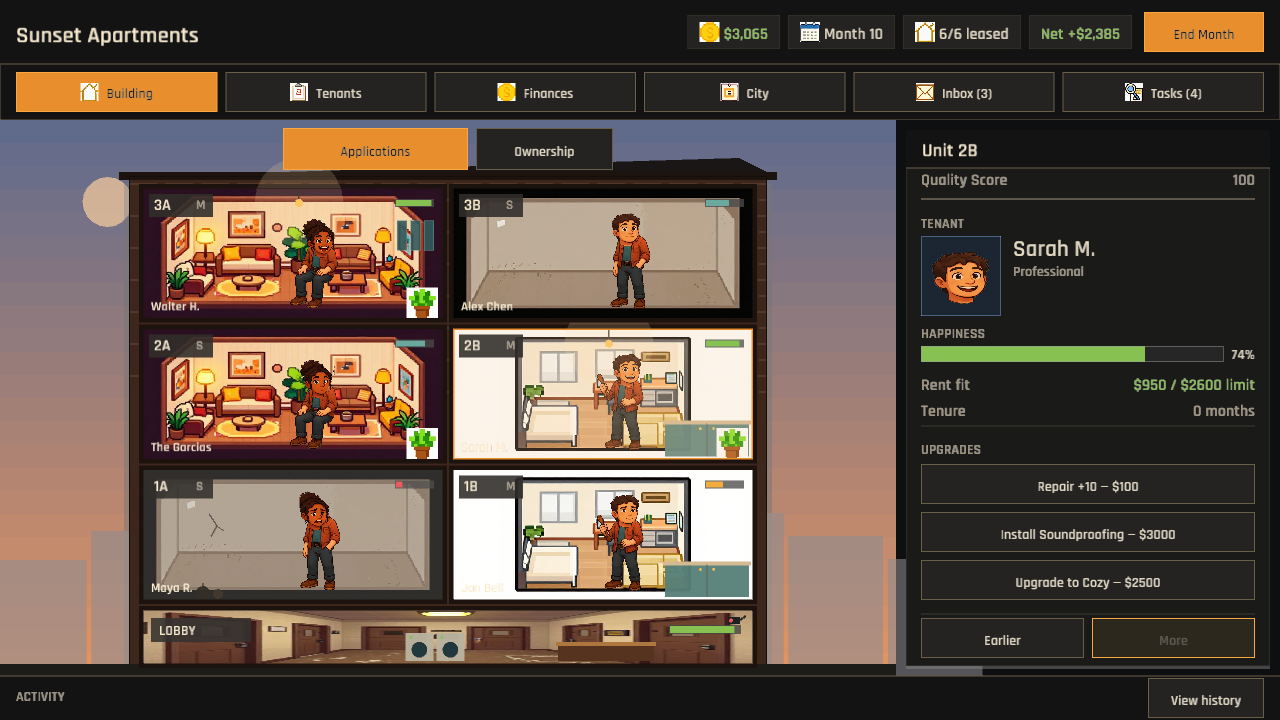
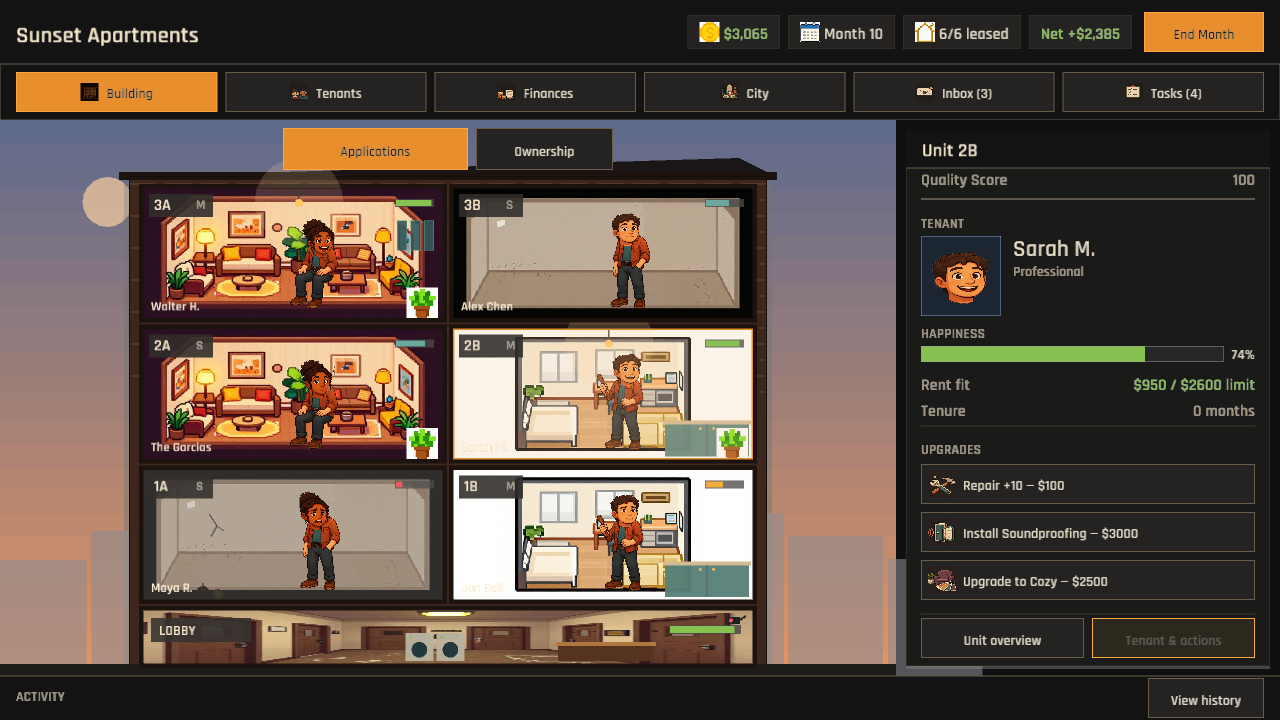
Every renovation quote carries the tool that will change the room (upgrade action atlas)
Add a generated 3x2 atlas for repair, soundproofing, kitchen, lighting, laundry, and interior-design actions. Render its crop-aware icons inside the existing full-row upgrade buttons while preserving authoritative action names, costs, affordability states, and touch behavior.

Map unknown configured apartment upgrades to the design family, cover the principal action families with a focused test, and correct the 640x480 scrolled capture seed so it reaches the actual upgrade rows rather than stopping at tenant details.

Verified with 137 passing tests (1 ignored), desktop and corrected 640x480 upgrade captures, formatting, JSON and Rust line-count checks, and publish.ps1 for Windows, WebGL, and preview deployment.

diff --git a/src/ui/apartment_panel_sections.rs b/src/ui/apartment_panel_sections.rs
@@ -1,9 +1,9 @@
 use crate::assets::AssetManager;
-use crate::building::{Apartment, ApartmentSize, Building, DesignType, NoiseLevel};
+use crate::building::{Apartment, ApartmentSize, Building, DesignType, NoiseLevel, UpgradeAction};
 use macroquad::prelude::*;
 
 use super::{common::*, UiAction};
-use macroquad_toolkit::ui::{draw_ui_text, measure_ui_text};
+use macroquad_toolkit::ui::{draw_ui_text, measure_ui_text, truncate_text_to_width};
 
 pub(super) fn draw_sold_condo_panel(
     apt: &Apartment,
@@ -228,6 +228,7 @@ pub(super) fn draw_upgrades(
     content_bottom: f32,
     current_scroll: f32,
     config: &crate::data::config::GameConfig,
+    assets: &AssetManager,
 ) -> (Option<UiAction>, f32, f32) {
     let w = panel_w - 30.0;
     if *y > content_top && *y < content_bottom {
@@ -271,7 +272,13 @@ pub(super) fn draw_upgrades(
 
             if *y >= content_top
                 && *y + btn_h <= content_bottom
-                && button(content_x, *y, btn_w, btn_h, &label, can_afford)
+                && upgrade_button(
+                    Rect::new(content_x, *y, btn_w, btn_h),
+                    &label,
+                    can_afford,
+                    &upgrade,
+                    assets,
+                )
             {
                 action = Some(UiAction::UpgradeAction(upgrade));
             }
@@ -297,3 +304,87 @@ pub(super) fn draw_upgrades(
 
     (action, final_scroll, max_scroll)
 }
+
+fn upgrade_icon_tile(action: &UpgradeAction) -> (f32, f32) {
+    match action {
+        UpgradeAction::RepairApartment { .. } | UpgradeAction::RepairHallway { .. } => (0.0, 0.0),
+        UpgradeAction::Apply { upgrade_id, .. } if upgrade_id == "soundproofing" => (1.0, 0.0),
+        UpgradeAction::Apply { upgrade_id, .. } if upgrade_id == "kitchen_renovation" => (2.0, 0.0),
+        UpgradeAction::Apply { upgrade_id, .. } if upgrade_id == "lighting_upgrade" => (0.0, 1.0),
+        UpgradeAction::Apply { upgrade_id, .. } if upgrade_id == "install_laundry" => (1.0, 1.0),
+        UpgradeAction::Apply { .. } => (2.0, 1.0),
+    }
+}
+
+fn upgrade_button(
+    rect: Rect,
+    label: &str,
+    enabled: bool,
+    action: &UpgradeAction,
+    assets: &AssetManager,
+) -> bool {
+    let clicked =
+        crate::ui::widgets::button_at(rect, "", enabled, crate::ui::theme::Tone::Secondary);
+    let icon_size = 28.0;
+    let icon_rect = Rect::new(
+        rect.x + 7.0,
+        rect.y + (rect.h - icon_size) * 0.5,
+        icon_size,
+        icon_size,
+    );
+    let text_x = icon_rect.right() + 7.0;
+    let text_w = rect.right() - text_x - 7.0;
+    draw_upgrade_icon(action, icon_rect, enabled, assets);
+    draw_ui_text(
+        &truncate_text_to_width(label, text_w, crate::ui::theme::scale::LABEL),
+        text_x,
+        rect.y + rect.h * 0.5 + crate::ui::theme::scale::LABEL * 0.5 - 1.0,
+        crate::ui::theme::scale::LABEL,
+        if enabled {
+            colors::TEXT()
+        } else {
+            colors::TEXT_DIM()
+        },
+    );
+    clicked
+}
+
+fn draw_upgrade_icon(
+    action: &UpgradeAction,
+    rect: Rect,
+    enabled: bool,
+    assets: &AssetManager,
+) -> bool {
+    let Some(texture) = assets.get_texture("upgrade_icons") else {
+        return false;
+    };
+    let (column, row) = upgrade_icon_tile(action);
+    let tile_w = texture.width() / 3.0;
+    let tile_h = texture.height() * 0.5;
+    let inset_x = tile_w * 0.08;
+    let inset_y = tile_h * 0.08;
+    draw_texture_ex(
+        texture,
+        rect.x,
+        rect.y,
+        if enabled {
+            WHITE
+        } else {
+            Color::new(0.45, 0.43, 0.4, 0.7)
+        },
+        DrawTextureParams {
+            dest_size: Some(vec2(rect.w, rect.h)),
+            source: Some(Rect::new(
+                column * tile_w + inset_x,
+                row * tile_h + inset_y,
+                tile_w - inset_x * 2.0,
+                tile_h - inset_y * 2.0,
+            )),
+            ..Default::default()
+        },
+    );
+    true
+}
+
+#[cfg(test)]
+mod tests;

diff --git a/src/ui/apartment_panel_sections/tests.rs b/src/ui/apartment_panel_sections/tests.rs
@@ -1,0 +1,20 @@
+use super::*;
+
+#[test]
+fn apartment_upgrade_families_select_the_expected_cells() {
+    let apply = |id: &str| UpgradeAction::Apply {
+        upgrade_id: id.to_string(),
+        target_id: Some(1),
+    };
+    assert_eq!(
+        upgrade_icon_tile(&UpgradeAction::RepairApartment {
+            apartment_id: 1,
+            amount: 10,
+        }),
+        (0.0, 0.0)
+    );
+    assert_eq!(upgrade_icon_tile(&apply("soundproofing")), (1.0, 0.0));
+    assert_eq!(upgrade_icon_tile(&apply("kitchen_renovation")), (2.0, 0.0));
+    assert_eq!(upgrade_icon_tile(&apply("lighting_upgrade")), (0.0, 1.0));
+    assert_eq!(upgrade_icon_tile(&apply("upgrade_to_cozy")), (2.0, 1.0));
+}

diff --git a/src/game.rs b/src/game.rs
@@ -70,7 +70,11 @@ impl Game {
                 self.seed_gameplay_capture(true);
                 if let GameState::Gameplay(state) = &mut self.state {
                     state.selection = crate::ui::Selection::Apartment(3);
-                    state.panel_scroll_offset = 240.0;
+                    state.panel_scroll_offset = if scene == "unit_scrolled_tiny" {
+                        480.0
+                    } else {
+                        240.0
+                    };
                 }
             }
             "hallway_showcase" | "hallway_compact" | "hallway_tiny" => {

diff --git a/src/assets.rs b/src/assets.rs
@@ -67,6 +67,7 @@ impl AssetManager {
             "neighborhood_historic",
             // UI Icons
             "workspace_icons",
+            "upgrade_icons",
             "icon_money",
             "icon_repair",
             "icon_upgrade",
@@ -132,6 +133,7 @@ impl AssetManager {
                             | "achievement_emblems"
                             | "event_atlas"
                             | "workspace_icons"
+                            | "upgrade_icons"
                     ) {
                     FilterMode::Linear
                 } else {

diff --git a/src/ui/apartment_panel.rs b/src/ui/apartment_panel.rs
@@ -109,6 +109,7 @@ pub fn draw_apartment_panel(
         content_bottom,
         new_scroll,
         config,
+        assets,
     );
     if let Some(act) = upgrade_action {
         action = Some(act);
